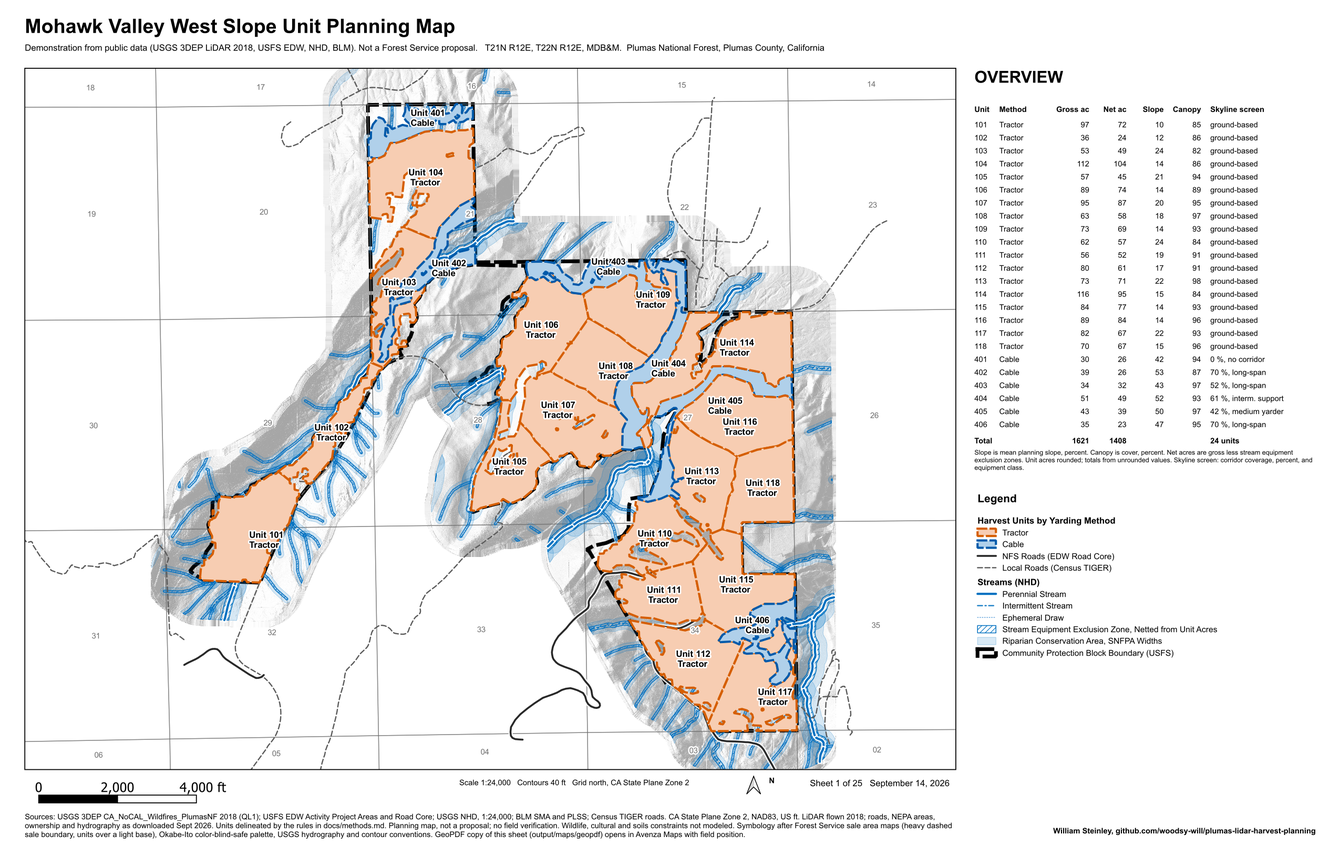
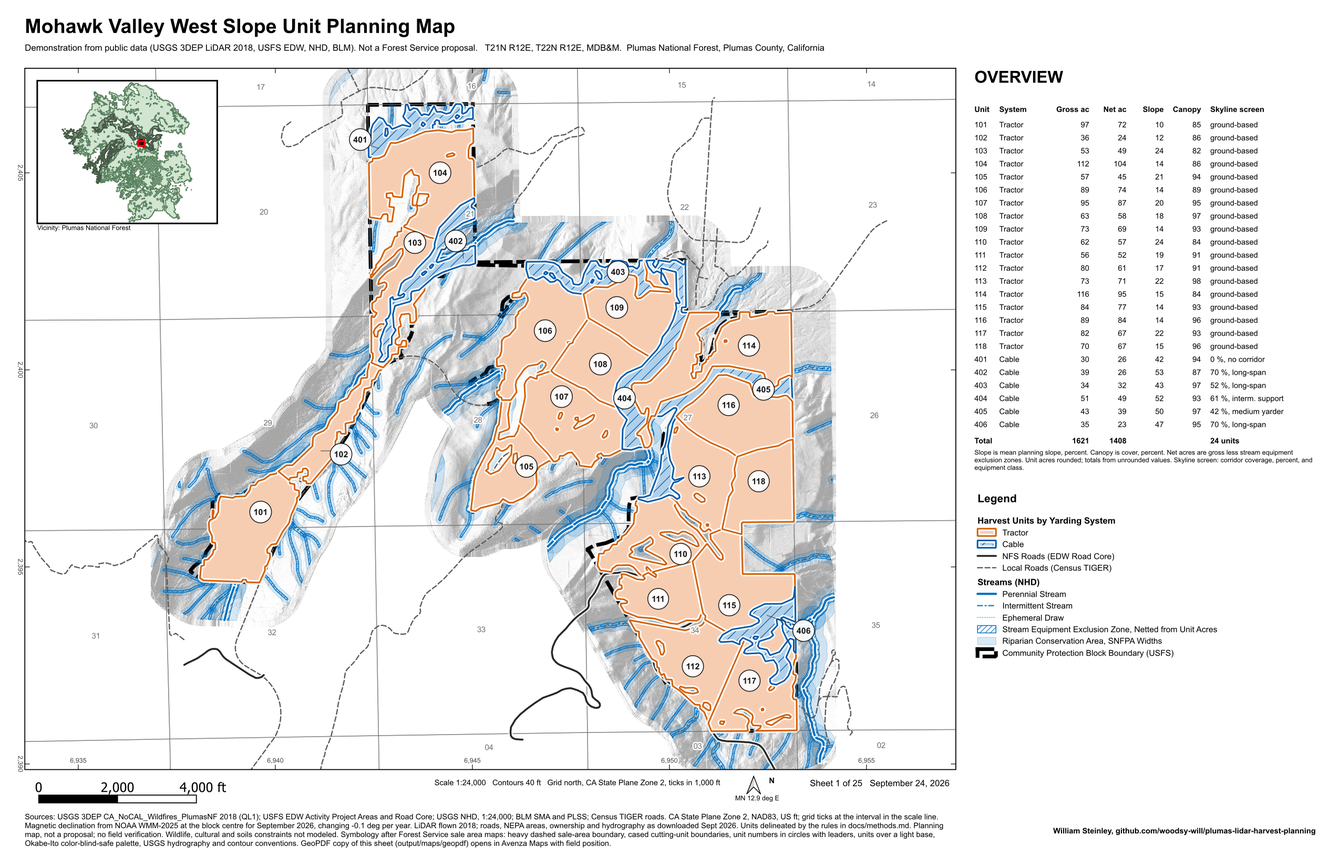
Cartography pass on the unit sheets: cased unit boundaries, circled unit numbers, State Plane grid
Reviewed the symbology against a current Forest Service sale area map (Willamette NF, JC timber sale)
and published cartographic guidance, and fixed what the review found.

Unit boundaries: two units of the same yarding system shared a fill and a boundary of the same colour,
so the line between neighbours disappeared and a run of tractor units read as one block. Every unit now
draws as method tint, white casing, solid boundary, which keeps the cutting-unit boundary the strongest
line on the sheet.

Unit labels: a two-line "Unit 405 / Cable" block does not fit a narrow drainage unit, and PAL was placing
it over the neighbour. Units now carry the number alone in a circle, inside the polygon where it fits and
on a leader where it does not.

Cable units are ruled at 45 degrees on the filled overview and locator: they follow the drainages, where a
flat blue tint next to the riparian wash reads as water, and the ruling also carries the yarding system in
a grey print and under red-green colour blindness.

Marginalia, to the NWCG PMS 936 element list: State Plane Zone 2 grid ticks with values in thousands of
feet, eastings inside the bottom frame and northings outside the left, with a blocking strip that keeps
unit numbers off the easting labels; magnetic declination under the north arrow (NOAA WMM-2025); a vicinity
map of the Plumas National Forest on the overview sheet, which previously had no locator at all.
[…]

diff --git a/scripts/05_unit_maps.py b/scripts/05_unit_maps.py
@@ -20,7 +20,8 @@ from qgis.core import (QgsLayoutMeasurement, QgsCoordinateTransform, QgsMapLayer
                        QgsLayoutItemPage, QgsCategorizedSymbolRenderer, QgsRendererCategory,
                        QgsSimpleFillSymbolLayer, QgsLinePatternFillSymbolLayer)
 from qgis.core import QgsRenderContext, QgsGeometry, QgsSimpleLineSymbolLayer
-from qgis.PyQt.QtCore import Qt
+from qgis.core import QgsTextBackgroundSettings, QgsSimpleLineCallout, Qgis, QgsLayoutItemMapGrid, QgsLayoutItemShape
+from qgis.PyQt.QtCore import Qt, QSizeF
 from qgis.PyQt.QtGui import QColor, QFont
 
 ROOT = os.path.dirname(os.path.dirname(os.path.abspath(__file__)))
@@ -30,6 +31,7 @@ CRS = QgsCoordinateReferenceSystem("EPSG:2226")
 import datetime
 TITLE = "Mohawk Valley West Slope Unit Planning Map"
 DATE = datetime.date.today().strftime("%B %d, %Y"); SHEET = [1, 1]
+DECL = "12.9 deg E"   # short in the margin; the model, epoch and drift are cited in the sources block
 SUBTITLE = "Demonstration from public data (USGS 3DEP LiDAR 2018, USFS EDW, NHD, BLM). Not a Forest Service proposal."
 
 QgsApplication.setPrefixPath(r"C:\Program Files\QGIS 3.44.12\apps\qgis-ltr", True)
@@ -75,6 +77,37 @@ def cased_outline(inner=(0, 0, 0), outer=(255, 255, 255), wi=1.3, wo=3.0):
     return s
 
 
+def unit_face(fill_rgb, line_rgb, casing=1.5, edge=0.5, hatch_angle=None, hatch_dist=2.4, hatch_lw=0.22):
+    """Filled unit for the overview: method tint, a white casing, then the unit boundary on top. Two units of the same
+    method share an edge, so without the casing the common boundary disappears into the fill; the casing reads as a
+    white seam on both sides and each unit stays a separate figure (Forest Service sale area maps keep the cutting unit
+    boundary as the strongest line on the sheet)."""
+    s = QgsFillSymbol(); s.deleteSymbolLayer(0)
+    face = QgsSimpleFillSymbolLayer(); face.setFillColor(QColor(*fill_rgb)); face.setStrokeStyle(Qt.NoPen); s.appendSymbolLayer(face)
+    if hatch_angle is not None:   # cable units sit in the drainages and a flat blue tint there reads as water; the ruling marks them as treatment
+        pat = QgsLinePatternFillSymbolLayer(); pat.setLineAngle(hatch_angle); pat.setDistance(hatch_dist); pat.setLineWidth(hatch_lw); pat.setColor(QColor(*line_rgb)); s.appendSymbolLayer(pat)
+    cas = QgsSimpleFillSymbolLayer(); cas.setFillColor(QColor(0, 0, 0, 0)); cas.setStrokeColor(QColor(255, 255, 255, 235)); cas.setStrokeWidth(casing); s.appendSymbolLayer(cas)
+    top = QgsSimpleFillSymbolLayer(); top.setFillColor(QColor(0, 0, 0, 0)); top.setStrokeColor(QColor(*line_rgb)); top.setStrokeWidth(edge); s.appendSymbolLayer(top)
+    return s
+
+
+def number_label(layer, size=7.5, callout=True):
+    """Unit number in a circle, the sale-area-map callout. Short labels fit inside narrow units where a two-line
+    'Unit 405 / Cable' block does not, and a leader line carries the few that still have to sit outside."""
+    s = QgsPalLayerSettings(); s.fieldName = "unit_id"; s.isExpression = False; s.enabled = True
+    f = QgsTextFormat(); f.setFont(QFont("Arial", int(size), QFont.Bold)); f.setSize(size); f.setColor(QColor(20, 20, 20))
+    b = f.background(); b.setEnabled(True); b.setType(QgsTextBackgroundSettings.ShapeCircle)
+    b.setFillColor(QColor(255, 255, 255, 235)); b.setStrokeColor(QColor(20, 20, 20)); b.setStrokeWidth(0.25)
+    b.setSizeType(QgsTextBackgroundSettings.SizeBuffer); b.setSize(QSizeF(0.7, 0.7)); b.setSizeUnit(QgsUnitTypes.RenderMillimeters)
+    f.setBackground(b); s.setFormat(f)
+    s.placement = QgsPalLayerSettings.Placement.Horizontal
+    s.setPolygonPlacementFlags(Qgis.LabelPolygonPlacementFlags(Qgis.LabelPolygonPlacementFlag.AllowPlacementInsideOfPolygon | Qgis.LabelPolygonPlacementFlag.AllowPlacementOutsideOfPolygon))
+    if callout:
+        co = QgsSimpleLineCallout(); co.setEnabled(True); co.setLineSymbol(line("40,40,40,200", 0.2))
+        co.setMinimumLength(0.6); co.setMinimumLengthUnit(QgsUnitTypes.RenderMillimeters); s.setCallout(co)
+    layer.setLabelsEnabled(True); layer.setLabeling(QgsVectorLayerSimpleLabeling(s))
+
+
 def line(color, width, style="solid"):
     return QgsLineSymbol.createSimple({"color": color, "width": str(width), "line_style": style, "capstyle": "round"})
 
@@ -99,9 +132,11 @@ classes = [QgsPalettedRasterRenderer.Class(1, QColor(206, 232, 222), "Ground-bas
 ycls.setRenderer(QgsPalettedRasterRenderer(ycls.dataProvider(), 1, classes))
 block = vl(os.path.join(RAW, "aoi.geojson"), None, "Community Protection Block Boundary (USFS)"); block.setSubsetString("role = 'treatment_block'")
 block.renderer().setSymbol(fill("0,0,0,0", "0,0,0,255", 1.2)); block.renderer().symbol().symbolLayer(0).setStrokeStyle(Qt.DashLine)   # sale area boundary: heavy black dash
+forest = vl(os.path.join(RAW, "blm_sma_usfs.geojson"), None, "National Forest (BLM SMA)"); forest.renderer().setSymbol(fill("209,229,209,255", "90,130,95,255", 0.3))
+projects = vl(os.path.join(RAW, "facts_cp_project_areas.geojson"), None, "NEPA Project Areas (USFS EDW)"); projects.renderer().setSymbol(fill("120,140,120,120", "70,90,70,255", 0.3))
 sections = vl(os.path.join(RAW, "plss_sections.geojson"), None, "PLSS Sections (BLM)"); sections.renderer().setSymbol(fill("0,0,0,0", "110,110,110,150", 0.25)); label(sections, "\"FRSTDIVNO\"", 7, "110,110,110", False)
 rca = vl(gpkg, "rca_buffers", "Riparian Conservation Area, SNFPA Widths")
-rca.renderer().setSymbol(fill("0,112,192,38", "0,112,192,90", 0.15))   # mapped only: a pale wash, so it never competes with the units
+rca.renderer().setSymbol(fill("0,112,192,38", "0,112,192,90", 0.15))   # mapped only: a pale wash, so it never competes with the units (any lighter and the legend swatch reads as blank white)
 eez = vl(gpkg, "eez_buffers", "Stream Equipment Exclusion Zone, Netted from Unit Acres")
 eez.renderer().setSymbol(hatch((0, 112, 192), (0, 112, 192), angle=45, dist=1.2, lw=0.2, ow=0.25))
 streams = vl(gpkg, "streams_aoi", "Streams (NHD)")
@@ -125,31 +160,31 @@ cl_f = QgsTextFormat(); cl_f.setFont(QFont("Arial", 7)); cl_f.setSize(7); cl_f.s
 from qgis.core import QgsRuleBasedLabeling
 cl_root = QgsRuleBasedLabeling.Rule(None); cl_rule = QgsRuleBasedLabeling.Rule(cl_s); cl_rule.setFilterExpression("\"index\" = 1"); cl_root.appendChild(cl_rule)
 contours.setLabelsEnabled(True); contours.setLabeling(QgsRuleBasedLabeling(cl_root))
-units = vl(gpkg, "units", "Harvest Unit Boundary by Method"); SHEET[1] = sum(1 for _ in units.getFeatures()) + 1   # overview plus one sheet per unit (featureCount() can be -1 before the provider has counted)
+units = vl(gpkg, "units", "Harvest Unit Boundary by Yarding System"); SHEET[1] = sum(1 for _ in units.getFeatures()) + 1   # overview plus one sheet per unit (featureCount() can be -1 before the provider has counted)
 # method colors: Okabe-Ito vermillion for tractor, blue for cable, green for hand thinning (dark for lines, pale for fills)
 METHOD_COLORS = {"Tractor": ((213, 94, 0), (247, 205, 178)), "Cable": ((0, 90, 170), (176, 208, 234)), "Hand Thinning": ((0, 120, 90), (190, 228, 214))}
 present = {f["method"] for f in units.getFeatures()}
 # unit sheets: cased outline by method, interior open so the slope tint inside the unit stays readable (figure over a receded base)
 ucats = [QgsRendererCategory(m, cased_outline(inner=o, outer=(255, 255, 255), wi=0.9, wo=2.2), m) for m, (o, f_) in METHOD_COLORS.items() if m in present]
-units.setRenderer(QgsCategorizedSymbolRenderer("method", ucats)); label(units, "concat('Unit ', \"unit_id\", '\\n', \"method\")", 9)
+units.setRenderer(QgsCategorizedSymbolRenderer("method", ucats)); number_label(units, 7.5)
 from qgis.core import QgsLabelObstacleSettings
 _ls = units.labeling().settings(); _ob = _ls.obstacleSettings(); _ob.setIsObstacle(True); _ob.setType(QgsLabelObstacleSettings.ObstacleType.PolygonBoundary); _ob.setFactor(2.0); _ls.setObstacleSettings(_ob); units.setLabeling(QgsVectorLayerSimpleLabeling(_ls))   # contour labels avoid unit outlines
-# overview and inset: sale-area-map convention, units filled by method with a dashed dark outline (cutting unit boundary)
-units_plain = vl(gpkg, "units", "Harvest Units by Yarding Method")
-pcats = []
-for m, (o, f_) in METHOD_COLORS.items():
-    if m in present:
-        sym = fill(",".join(str(v) for v in f_) + ",255", ",".join(str(v) for v in o) + ",255", 0.7); sym.symbolLayer(0).setStrokeStyle(Qt.DashLine); pcats.append(QgsRendererCategory(m, sym, m))
-units_plain.setRenderer(QgsCategorizedSymbolRenderer("method", pcats)); label(units_plain, "concat('Unit ', \"unit_id\", '\\n', \"method\")", 8)
-units_inset = vl(gpkg, "units", "units_inset"); units_inset.setRenderer(QgsCategorizedSymbolRenderer("method", [QgsRendererCategory(c.value(), c.symbol().clone(), c.label()) for c in pcats]))
+# overview and inset: sale-area-map convention, units filled by method, each one cased so neighbours of the same method
+# still read as separate cutting units, numbered in a circle with the method in the table and legend
+units_plain = vl(gpkg, "units", "Harvest Units by Yarding System")
+HATCH = {"Cable": 45}   # ruling by method: ground-based units plain, cable units ruled, so method survives a grey print and color-vision deficiency
+pcats = [QgsRendererCategory(m, unit_face(f_ + (255,), o + (255,), hatch_angle=HATCH.get(m)), m) for m, (o, f_) in METHOD_COLORS.items() if m in present]
+units_plain.setRenderer(QgsCategorizedSymbolRenderer("method", pcats)); number_label(units_plain, 7.5)
+units_inset = vl(gpkg, "units", "units_inset")   # same fills, thinner casing: the locator is 55 mm wide and the overview weights would close the gaps
+units_inset.setRenderer(QgsCategorizedSymbolRenderer("method", [QgsRendererCategory(m, unit_face(f_ + (255,), o + (255,), casing=0.45, edge=0.18, hatch_angle=HATCH.get(m), hatch_dist=1.2, hatch_lw=0.12), m) for m, (o, f_) in METHOD_COLORS.items() if m in present]))
 cur = vl(gpkg, "units", "This Unit"); cur.renderer().setSymbol(cased_outline(wi=1.6, wo=3.6))
 have_cable = os.path.exists(cable)
 if have_cable:
-    corr = vl(cable, "corridors", "Feasible Skyline Corridors from Selected Landings, Yarded toward Landing"); corr.setSubsetString("feasible = 1"); corr.renderer().setSymbol(line("0,0,0,170", 0.3))
+    corr = vl(cable, "corridors", "Feasible Skyline Corridors from Selected Landings, Yarded toward Landing"); corr.setSubsetString("feasible = 1"); corr.renderer().setSymbol(line("0,0,0,205", 0.35))   # the corridors are the analysis result on a unit sheet: dark enough to read over the slope tint
     landings = vl(cable, "landings", "Selected Landings on Roads, This Unit"); landings.setSubsetString("corridors_ok > 0")
     landings.renderer().setSymbol(QgsMarkerSymbol.createSimple({"name": "triangle", "color": "240,228,66,255", "outline_color": "0,0,0,255", "size": "2.8"}))
 layers = [cur, units] + ([landings, corr] if have_cable else []) + [roads, tiger, streams, contours, eez, rca, sections, block, relief]
-proj.addMapLayer(units_plain, False); proj.addMapLayer(units_inset, False)
+proj.addMapLayer(units_plain, False); proj.addMapLayer(units_inset, False); proj.addMapLayer(forest, False); proj.addMapLayer(projects, False)
 for l in layers:
     proj.addMapLayer(l, False)
 root = proj.layerTreeRoot()
@@ -196,6 +231,40 @@ def make_layout(name, feat=None, extent=None, scale=None):
     if scale:
         m.setScale(scale)
     layout.addLayoutItem(m)
+    # State Plane grid: ticks in the frame with eastings along the bottom and northings up the left side, so a
+    # position read off a GPS can be put on the paper sheet. Interval is the round number that gives about six
+    # divisions across the 300 mm map at whatever scale the sheet was fitted to.
+    span_ft = m.scale() * (300 / 304.8)
+    iv = min(x for x in (500, 1000, 2000, 2500, 5000, 10000, 20000) if x >= span_ft / 6.5)
+    gr = QgsLayoutItemMapGrid("State Plane grid", m)
+    gr.setEnabled(True); gr.setCrs(CRS); gr.setUnits(QgsLayoutItemMapGrid.MapUnit)
+    gr.setIntervalX(iv); gr.setIntervalY(iv)
+    gr.setStyle(QgsLayoutItemMapGrid.FrameAnnotationsOnly)          # no lines across the map face: the units stay the figure
+    gr.setFrameStyle(QgsLayoutItemMapGrid.InteriorTicks); gr.setFrameWidth(1.6); gr.setFramePenSize(0.2)
+    gr.setAnnotationEnabled(True); gr.setAnnotationPrecision(0)
+    # values in thousands of feet, the USGS quad convention: a seven-digit number inside the frame is wide enough to
+    # print across a unit number, and the first sweep of all 25 sheets caught it doing exactly that
+    gr.setAnnotationFormat(QgsLayoutItemMapGrid.CustomFormat)
+    gr.setAnnotationExpression('format_number(@grid_number / 1000, 0)')
+    gf = QgsTextFormat(); gf.setFont(QFont("Arial", 6)); gf.setSize(6); gf.setColor(QColor(70, 70, 70))
+    gf.buffer().setEnabled(True); gf.buffer().setSize(1.0); gf.buffer().setColor(QColor(255, 255, 255))
+    gr.setAnnotationTextFormat(gf)
+    gr.setAnnotationFrameDistance(0.6)
+    gr.setAnnotationDisplay(QgsLayoutItemMapGrid.LongitudeOnly, QgsLayoutItemMapGrid.Bottom)
+    gr.setAnnotationPosition(QgsLayoutItemMapGrid.InsideMapFrame, QgsLayoutItemMapGrid.Bottom)
+    gr.setAnnotationDirection(QgsLayoutItemMapGrid.Horizontal, QgsLayoutItemMapGrid.Bottom)
+    gr.setAnnotationDisplay(QgsLayoutItemMapGrid.LatitudeOnly, QgsLayoutItemMapGrid.Left)
+    gr.setAnnotationPosition(QgsLayoutItemMapGrid.OutsideMapFrame, QgsLayoutItemMapGrid.Left)   # the page margin is free
+    gr.setAnnotationDirection(QgsLayoutItemMapGrid.VerticalDescending, QgsLayoutItemMapGrid.Left)
+    for border in (QgsLayoutItemMapGrid.Top, QgsLayoutItemMapGrid.Right):
+        gr.setAnnotationDisplay(QgsLayoutItemMapGrid.HideAll, border)   # one set of numbers is enough on a sheet this busy
+    m.grids().addGrid(gr); m.updateBoundingRect()
+    # the grid numbers sit in the bottom of the frame, and a unit number placed hard against that edge printed
+    # straight through one on sheet 110. An invisible strip along the bottom keeps map labels off the numbers;
+    # a unit pushed inward keeps its leader back to its own polygon.
+    guard = QgsLayoutItemShape(layout); guard.setShapeType(QgsLayoutItemShape.Rectangle)
+    guard.attemptMove(QgsLayoutPoint(8, 242.5, QgsUnitTypes.LayoutMillimeters)); guard.attemptResize(QgsLayoutSize(300, 5.5, QgsUnitTypes.LayoutMillimeters))
+    guard.setSymbol(fill("0,0,0,0", "0,0,0,0", 0)); layout.addLayoutItem(guard); m.addLabelBlockingItem(guard)
     add_label(layout, TITLE, 8, 5, 300, 9, 18, True)
     add_label(layout, SUBTITLE + f"   {trs_text(feat.geometry() if feat is not None else None)}", 8, 14, 300, 6, 8)
     # right panel
@@ -228,7 +297,7 @@ def make_layout(name, feat=None, extent=None, scale=None):
         def row(vals, yy, size=7, bold=False):
             for (cx, cw, al), v in zip(cols, vals):
                 add_label(layout, v, px + cx, yy, cw, 5, size, bold, al)
-        row(["Unit", "Method", "Gross ac", "Net ac", "Slope", "Canopy", "Skyline screen"], y, 7, True); y += 5
+        row(["Unit", "System", "Gross ac", "Net ac", "Slope", "Canopy", "Skyline screen"], y, 7, True); y += 5
         tg = tn = 0.0
         for f in sorted(units.getFeatures(), key=lambda x: int(x["unit_id"])):
             dd = dict(zip([x.name() for x in units.fields()], f.attributes())); s = summary.get(int(dd["unit_id"]), {}); tg += round(dd["acres"], 2); tn += round(dd["net_acres"], 2)
@@ -256,15 +325,28 @@ def make_layout(name, feat=None, extent=None, scale=None):
     leg.attemptMove(QgsLayoutPoint(px, ly, QgsUnitTypes.LayoutMillimeters)); leg.attemptResize(QgsLayoutSize(pw, 268 - ly, QgsUnitTypes.LayoutMillimeters)); layout.addLayoutItem(leg)
     sb = QgsLayoutItemScaleBar(layout); sb.setLinkedMap(m); sb.setStyle("Single Box"); sb.setUnits(QgsUnitTypes.DistanceFeet); sb.setUnitLabel("ft"); sb.setNumberOfSegments(2); sb.setNumberOfSegmentsLeft(0); sb.setUnitsPerSegment(500 if scale and scale <= 6000 else 1000 if scale and scale <= 12000 else 2000)
     sb.setHeight(2.5); sb.setLabelBarSpace(1); sb.attemptMove(QgsLayoutPoint(10, 250, QgsUnitTypes.LayoutMillimeters)); layout.addLayoutItem(sb)
-    add_label(layout, f"Scale 1:{int(round(m.scale())):,}   Contours 40 ft   Grid north, CA State Plane Zone 2", 148, 251, 92, 6, 7)
+    add_label(layout, f"Scale 1:{int(round(m.scale())):,}   Contours 40 ft   Grid north, CA State Plane Zone 2, ticks in 1,000 ft", 140, 251, 100, 6, 7)
     add_label(layout, f"Sheet {SHEET[0]} of {SHEET[1]}   {DATE}", 250, 251, 56, 6, 8, False, Qt.AlignRight); add_label(layout, "N", 247.8, 250.3, 5, 5, 7, True)
+    add_label(layout, f"MN {DECL}", 233, 256.2, 22, 4, 6, False, Qt.AlignHCenter)   # declination under the north arrow, where a compass user looks for it
     north = QgsLayoutItemPicture(layout); north.setPicturePath(os.path.join(QgsApplication.prefixPath(), "svg", "arrows", "NorthArrow_04.svg")); north.attemptMove(QgsLayoutPoint(240.5, 248.5, QgsUnitTypes.LayoutMillimeters)); north.attemptResize(QgsLayoutSize(7, 7.5, QgsUnitTypes.LayoutMillimeters)); layout.addLayoutItem(north)
     if feat is not None:
-        ins = QgsLayoutItemMap(layout); ins.setKeepLayerSet(True); ins.setLayers([cur, units_inset, block, hill]); ins.setCrs(CRS); ins.attemptMove(QgsLayoutPoint(251, 211, QgsUnitTypes.LayoutMillimeters)); ins.attemptResize(QgsLayoutSize(55, 35, QgsUnitTypes.LayoutMillimeters)); ins.setBackgroundEnabled(True); ins.setBackgroundColor(QColor(255, 255, 255)); ins.zoomToExtent(block_ext.buffered(1500)); ins.setFrameEnabled(True); ins.setFrameStrokeWidth(QgsLayoutMeasurement(0.5, QgsUnitTypes.LayoutMillimeters)); ins.setFrameStrokeColor(QColor(0, 0, 0)); m.addLabelBlockingItem(ins); ins.refresh()   # locator in the map corner so the panel legend can run to the footer; ins.zoomToExtent(block_ext.buffered(1500)); ins.setFrameEnabled(True)
+        ins = QgsLayoutItemMap(layout); ins.setKeepLayerSet(True); ins.setLayers([cur, units_inset, block, hill]); ins.setCrs(CRS); ins.attemptMove(QgsLayoutPoint(251, 206, QgsUnitTypes.LayoutMillimeters)); ins.attemptResize(QgsLayoutSize(55, 35, QgsUnitTypes.LayoutMillimeters)); ins.setBackgroundEnabled(True); ins.setBackgroundColor(QColor(255, 255, 255)); ins.zoomToExtent(block_ext.buffered(1500)); ins.setFrameEnabled(True); ins.setFrameStrokeWidth(QgsLayoutMeasurement(0.5, QgsUnitTypes.LayoutMillimeters)); ins.setFrameStrokeColor(QColor(0, 0, 0)); m.addLabelBlockingItem(ins); ins.refresh()   # locator in the map corner so the panel legend can run to the footer; ins.zoomToExtent(block_ext.buffered(1500)); ins.setFrameEnabled(True)
         ov = QgsLayoutItemMapOverview("cur", ins); ov.setLinkedMap(m); ov.setFrameSymbol(fill("255,0,0,40", "255,0,0,255", 0.5)); ins.overviews().addOverview(ov); layout.addLayoutItem(ins)
+    else:
+        # the overview sheet had no locator at all: a reader could not place the block without reading the title.
+        # Vicinity map in the empty west corner, block in red inside the Plumas National Forest and its project areas.
+        vic = QgsLayoutItemMap(layout); vic.setKeepLayerSet(True); vic.setLayers([block, projects, forest]); vic.setCrs(CRS)   # no roads: at forest scale the TIGER network is a hairball and buries the project areas
+        vic.attemptMove(QgsLayoutPoint(12, 26, QgsUnitTypes.LayoutMillimeters)); vic.attemptResize(QgsLayoutSize(58, 46, QgsUnitTypes.LayoutMillimeters))
+        vic.setBackgroundEnabled(True); vic.setBackgroundColor(QColor(255, 255, 255))
+        fx = forest.extent(); ct = QgsCoordinateTransform(forest.crs(), CRS, proj); fx = ct.transformBoundingBox(fx)
+        vic.zoomToExtent(fx.buffered(3000))
+        vic.setFrameEnabled(True); vic.setFrameStrokeWidth(QgsLayoutMeasurement(0.5, QgsUnitTypes.LayoutMillimeters)); vic.setFrameStrokeColor(QColor(0, 0, 0))
+        m.addLabelBlockingItem(vic); vic.refresh(); layout.addLayoutItem(vic)
+        vov = QgsLayoutItemMapOverview("block", vic); vov.setLinkedMap(m); vov.setFrameSymbol(fill("255,0,0,60", "255,0,0,255", 0.6)); vic.overviews().addOverview(vov)
+        add_label(layout, "Vicinity: Plumas National Forest", 12, 72.4, 58, 4, 6)
     add_label(layout, "Sources: USGS 3DEP CA_NoCAL_Wildfires_PlumasNF 2018 (QL1); USFS EDW Activity Project Areas and Road Core; USGS NHD, 1:24,000; BLM SMA and PLSS; Census TIGER roads. "
-                      "CA State Plane Zone 2, NAD83, US ft. LiDAR flown 2018; roads, NEPA areas, ownership and hydrography as downloaded Sept 2026. Units delineated by the rules in docs/methods.md. "
-                      "Planning map, not a proposal; no field verification. Wildlife, cultural and soils constraints not modeled. Symbology after Forest Service sale area maps (heavy dashed sale boundary, units over a light base), Okabe-Ito color-blind-safe palette, USGS hydrography and contour conventions. "
+                      "CA State Plane Zone 2, NAD83, US ft; grid ticks at the interval in the scale line. Magnetic declination from NOAA WMM-2025 at the block centre for September 2026, changing -0.1 deg per year. LiDAR flown 2018; roads, NEPA areas, ownership and hydrography as downloaded Sept 2026. Units delineated by the rules in docs/methods.md. "
+                      "Planning map, not a proposal; no field verification. Wildlife, cultural and soils constraints not modeled. Symbology after Forest Service sale area maps: heavy dashed sale-area boundary, cased cutting-unit boundaries, unit numbers in circles with leaders, units over a light base, Okabe-Ito color-blind-safe palette, USGS hydrography and contour conventions. "
                       "GeoPDF copy of this sheet (output/maps/geopdf) opens in Avenza Maps with field position.",
               8, 262, 300, 14, 7)
     add_label(layout, "William Steinley, github.com/woodsy-will/plumas-lidar-harvest-planning", px, 266.5, pw, 6, 7, True, Qt.AlignRight)

diff --git a/scripts/10_sample_pack.py b/scripts/10_sample_pack.py
@@ -1,0 +1,45 @@
+"""10_sample_pack.py - a small sample of the map series for people who will not download 190 MB.
+
+Three sheets out of the twenty-five: the overview, one ground-based unit and one cable unit, merged with
+bookmarks, plus the Avenza GeoPDF of the cable unit so the sample can be opened in the field. Everything comes
+from output/maps, so this only runs after 05_unit_maps.py.
+
+Outputs output/maps/sample/Sample_Sheets.pdf and Sample_Unit_404_GeoPDF.pdf
+Run: python-qgis-ltr.bat scripts/10_sample_pack.py
+"""
+import os
+import shutil
+
+from pypdf import PdfWriter
+
+ROOT = os.path.dirname(os.path.dirname(os.path.abspath(__file__)))
+MAPS = os.path.join(ROOT, "output", "maps")
+OUT = os.path.join(MAPS, "sample")
+os.makedirs(OUT, exist_ok=True)
+
+SHEETS = [("Overview.pdf", "Overview, all 24 units"),
+          ("Unit_101.pdf", "Unit 101, tractor"),
+          ("Unit_404.pdf", "Unit 404, cable")]
+
+missing = [s for s, _ in SHEETS if not os.path.exists(os.path.join(MAPS, s))]
+if missing:
+    raise SystemExit("run 05_unit_maps.py first, missing: " + ", ".join(missing))
+
+w = PdfWriter()
+for i, (sheet, title) in enumerate(SHEETS):
+    w.append(os.path.join(MAPS, sheet))
+    w.add_outline_item(title, i)
+w.add_metadata({"/Title": "Mohawk Valley West Slope unit planning map, 3-sheet sample (demonstration from public data)",
+                "/Author": "William Steinley",
+                "/Creator": "PyQGIS 3.44 layout export, merged with pypdf",
+                "/Subject": "Sample of the 25-sheet series. Full series and Avenza GeoPDFs are on the v1.1 release."})
+dst = os.path.join(OUT, "Sample_Sheets.pdf")
+w.write(dst)
+
+geo_src = os.path.join(MAPS, "geopdf", "Unit_404.pdf")
+geo_dst = os.path.join(OUT, "Sample_Unit_404_GeoPDF.pdf")
+if os.path.exists(geo_src):
+    shutil.copy2(geo_src, geo_dst)
+
+for f in sorted(os.listdir(OUT)):
+    print(f"  {f:34s} {os.path.getsize(os.path.join(OUT, f)) / 1e6:5.1f} MB")

diff --git a/scripts/02b_quicklooks.py b/scripts/02b_quicklooks.py
@@ -30,9 +30,11 @@ def read(name):
 
 hill, ext = read("hillshade.tif"); hill = np.where(hill == 0, np.nan, hill)
 rings = []
+labels = []   # unit number at the polygon's point on surface, so these figures can be read against the map sheets
 pds = ogr.Open(os.path.join(WORK, "planning.gpkg")); punits = pds.GetLayerByName("units")
 for f in punits:
     g = f.GetGeometryRef()
+    pt = g.PointOnSurface(); labels.append((pt.GetX(), pt.GetY(), str(f.GetField("unit_id"))))
     for poly in ([g.GetGeometryRef(i) for i in range(g.GetGeometryCount())] if g.GetGeometryName() == "MULTIPOLYGON" else [g]):
         r = poly.GetGeometryRef(0); rings.append(([r.GetPoint_2D(i)[0] for i in range(r.GetPointCount())], [r.GetPoint_2D(i)[1] for i in range(r.GetPointCount())]))
 
@@ -46,6 +48,9 @@ def frame(title):
 def finish(fig, ax, name, note=""):
     for xs, ys in rings:
         ax.plot(xs, ys, color="k", lw=0.6)
+    for x, y, t in labels:
+        ax.text(x, y, t, fontsize=6.5, ha="center", va="center", color="k", zorder=5,
+                bbox=dict(boxstyle="circle,pad=0.25", facecolor="white", edgecolor="k", linewidth=0.5, alpha=0.9))
     ax.set_xlim(ext[0], ext[1]); ax.set_ylim(ext[2], ext[3]); ax.set_xticks([]); ax.set_yticks([])
     # scale bar: one mile, and a north arrow
     x0 = ext[0] + (ext[1] - ext[0]) * 0.04; y0 = ext[2] + (ext[3] - ext[2]) * 0.04

diff --git a/scripts/09_export_webmap.py b/scripts/09_export_webmap.py
@@ -122,7 +122,13 @@ plots = gpd.read_file(G, layer="plots"); write(plots, "plots.geojson", cols=["pl
 # yarding class overlay: warp to EPSG:3857, 4-colour palette PNG with transparency, bounds in WGS84
 src = os.path.join(P, "output", "gis", "yarding_class.tif")
 tmp = os.path.join(OUT, "_yc3857.tif")
-gdal.Warp(tmp, src, dstSRS="EPSG:3857", xRes=6, yRes=6, resampleAlg="near", dstNodata=0)
+# clip to the units plus a 500 ft margin: over a topographic basemap the full DTM footprint reads as a hard-edged
+# rectangle of colour across ground nobody proposed to treat, and the classes only mean anything next to the units
+cut = os.path.join(OUT, "_ycmask.geojson")
+gpd.GeoDataFrame(geometry=[gpd.read_file(G, layer="units").to_crs(CRS_FT).buffer(500).union_all()], crs=CRS_FT).to_file(cut, driver="GeoJSON")
+gdal.Warp(tmp, src, dstSRS="EPSG:3857", xRes=6, yRes=6, resampleAlg="near", dstNodata=0,
+          cutlineDSName=cut, cropToCutline=True)
+os.remove(cut)
 ds = gdal.Open(tmp); a = ds.GetRasterBand(1).ReadAsArray(); gt = ds.GetGeoTransform(); w, h = ds.RasterXSize, ds.RasterYSize
 rgba = np.zeros((h, w, 4), dtype=np.uint8)
 pal = {1: (166, 206, 189, 150), 2: (240, 228, 150, 160), 3: (241, 176, 140, 170)}   # ground-based, marginal, cable (pale Okabe tints)

diff --git a/docs/methods.md b/docs/methods.md
@@ -171,7 +171,9 @@ The symbology was reworked against published guidance and a current Forest Servi
 
 | Element | Choice | Basis |
 |---|---|---|
-| Visual hierarchy | The units are the figure: cased outlines colored by method with bold labels; everything else recedes. Overview uses pale method fills with a dashed dark outline, the cutting-unit convention. | Willamette NF LFC SBA sale area map (2025): units as the only filled features, heavy dashed sale boundary, grey base; Esri design principles on figure-ground and contrast |
+| Visual hierarchy | The units are the figure: cased outlines colored by method, everything else recedes. The overview fills units by method and cases every unit boundary in white, so two neighbouring units of the same method still read as separate cutting units instead of one mass. | Willamette NF JC and LFC SBA sale area maps: units as the only filled features, heavy dashed sale boundary, grey base; Esri design principles on figure-ground, contrast and line casing |
+| Unit labels | Unit number in a circle, placed inside the unit where it fits and on a leader where it does not; method comes from the fill and the unit table | Willamette NF JC sale area map, where every cutting unit carries a circled number and the acres sit in a side table; a two-line `Unit 405 / Cable` block does not fit the narrow drainage units and drifted into the neighbour |
+| Cable units | On the overview and locator, where units are filled, the pale blue fill is ruled at 45 degrees; the unit sheets leave unit interiors open, so there the method is carried by the cased outline colour alone | The cable units follow the drainages, where a flat blue tint reads as water next to the riparian wash; ruling also carries method in a grey print and under color-vision deficiency. Value and pattern by yarding system follows the JC sale area map (light grey tractor, dark grey skyline) |
 | Sale boundary | Heavy black long dash | Same sale area map; a line pattern reads under any color vision |
 | Relief base | Multidirectional hillshade multiplied into pale class tints once in `02c_relief_tint.py`; shadows held to 62 % luminosity, tints desaturated | Patterson (shadedrelief.com): shadows no darker than 70 %, muted colors so relief does not muddy the map; Esri: base at 30 to 50 % strength; empirical overlay study (opacity 20 to 70 % acceptable, outlines extend the range) |
 | Why one composed raster | Blending translucent fills in the layout produced third colors (blue over yellow read as green) and would have forced the PDF export to raster | Jenny and Kelso 2007 on redundant variables and confusable blends; measured in this project |
@@ -179,8 +181,11 @@ The symbology was reworked against published guidance and a current Forest Servi
 | Hydrography | USGS blue; perennial solid, intermittent dash-dot, ephemeral dotted; riparian conservation areas as a pale wash; equipment exclusion zones as a fine hatch inside units | USGS topographic map symbol standard; class carried by line pattern, not hue |
 | Contours | USGS brown, 40 ft with 200 ft index, held to low opacity | USGS standard (brown, index heavier); hierarchy |
 | Roads | System roads as a cased dark line with the road number; local roads thin grey dash | USGS road classes; sale area map road numbers |
-| Corridors and landings | Thin neutral black corridors, yellow triangle landings with black edge | Avoids a second blue family next to hydrography |
-| Marginalia | Scale statement, contour interval, north reference, sheet number and date beside the bar scale | Standard map elements; sale area map title block |
+| Corridors and landings | Thin neutral black corridors, yellow triangle landings with black edge | Avoids a second blue family next to hydrography; the corridors are the result on a unit sheet, so they are drawn dark enough to read over the slope tint |
+| Web overlay extent | The yarding-class raster is clipped to the units and a 500 ft margin | Over a topographic basemap the full DTM footprint reads as a hard-edged rectangle of colour across ground nobody proposed to treat |
+| Marginalia | Scale statement, contour interval, north reference, magnetic declination, sheet number and date beside the bar scale | NWCG PMS 936 map elements (STANDL-SGD: scale, title, author, north arrow, date, legend, source, grid, disclaimer); sale area map title block. Declination 12.9 deg E at the block centre for September 2026, NOAA WMM-2025, changing -0.1 deg per year |
+| Coordinate grid | State Plane Zone 2 ticks in the map frame, values in thousands of feet: eastings along the bottom inside the frame, northings outside the left frame, interval the round number nearest one sixth of the map width at that sheet's scale. A blocking strip along the bottom of the frame keeps unit numbers off the easting labels | The grid element of STANDL-SGD, so a GPS position can be placed on the paper sheet; ticks rather than lines across the face keep the units the figure |
+| Vicinity map | Overview sheet carries a locator of the Plumas National Forest with the NEPA project areas and the block in red | NWCG and USGS practice: the reader should be able to place the sheet without reading the title. The unit sheets already carried a locator of the block |
 
 ## Canopy height model and pits
 
@@ -247,21 +252,21 @@ the measurements below come from reading the files back with PyMuPDF, GDAL and P
 
 | Item | Standard | This project |
 |---|---|---|
-| Print PDF | text and linework vector, rasters at 300 dpi, fonts embedded | unit sheets and overview: vector text (Arial embedded), 5 raster images at 300 dpi, 4.4 to 13.6 MB per unit sheet (median about 6.7 MB), 5.4 MB for the overview |
+| Print PDF | text and linework vector, rasters at 300 dpi, fonts embedded | unit sheets and overview: vector text (Arial embedded), 5 raster images at 300 dpi, 4.7 to 14.4 MB per unit sheet (median about 7.1 MB), 7.0 MB for the overview |
 | Field PDF | georeferenced; Avenza reduces maps over 4 Mpx to 150 dpi and over 12 Mpx to 72 dpi on import | `output/maps/geopdf`: QGIS GeoPDF at 200 dpi (4.2 Mpx map raster, under the 12 Mpx step); the print PDFs also carry ISO 32000 georeferencing |
 | Figures | 300 dpi for publication | all cable figures, route tables and profiles at 300 dpi; corridor maps and quicklooks at 200 dpi |
 | Web previews | sRGB, about 2,000 to 2,500 px long edge, JPEG quality 85 to 90 | 1,870 px map previews, 2,400 px figure previews, quality 88, 4:4:4 chroma so thin colored lines stay crisp |
 | Text contrast | WCAG 2.2 AA: 4.5:1 for text, 3:1 for graphics | every text and background pair measured is 5.4:1 or better; map text on the hillshade tints 8.8:1 |
-| Color vision | categories distinguishable under protan, deutan and tritan simulation | Okabe-Ito palette throughout; unit interiors are left open under a cased outline instead of filled with a translucent color, because a blue fill over the yellow marginal tint blended to a green only 9 CIE76 units from the ground-based tint; the overview, which carries no relief tint, uses opaque pale method fills; the current-unit outline is black with a white casing because red on orange collapsed to 1.7 units under protan simulation |
-| Type size | 6 pt minimum, 8 pt preferred on printed maps | smallest map text 6 pt (contour elevation labels), footer and overview unit table 7 pt, legend 7.5 pt, unit panel 9 pt |
+| Color vision | categories distinguishable under protan, deutan and tritan simulation | Okabe-Ito palette throughout; unit interiors are left open under a cased outline instead of filled with a translucent color, because a blue fill over the yellow marginal tint blended to a green only 9 CIE76 units from the ground-based tint; the overview, which carries no relief tint, uses opaque pale method fills with the cable units ruled, so the yarding system survives a grey print as well as protan or deutan vision; the current-unit outline is black with a white casing because red on orange collapsed to 1.7 units under protan simulation |
+| Type size | 6 pt minimum, 8 pt preferred on printed maps | smallest map text 6 pt (contour elevation labels), unit numbers and legend 7.5 pt, footer and overview unit table 7 pt, unit panel 9 pt |
 | Metadata | title and author in the document, ISO / FGDC summary for GIS data | PDF document title and author set; GeoPackage carries layer descriptions and a project metadata table |
 
-The merged map series (about 191 MB at 300 dpi) and the GeoPDF folder are kept out of git and attached to the
+The merged map series (about 193 MB at 300 dpi) and the GeoPDF folder are kept out of git and attached to the
 release instead.
 
 ## Colors, metadata and deliverables
 
-Every categorical color on the maps and figures (yarding method, yarding class, uphill / downhill,
+Every categorical color on the maps and figures (yarding system, yarding class, uphill / downhill,
 difficulty, QA flags) is drawn from the Okabe-Ito color-blind-safe palette. The unit sheets and overview
 are exported twice: a print PDF with vector text and 300 dpi rasters, and a georeferenced GeoPDF at 200 dpi
 for Avenza Maps. QGIS rasterizes the whole sheet for GeoPDF, so the two cannot be one file. Each sheet

diff --git a/README.md b/README.md
@@ -134,7 +134,7 @@ units fall short of 20 plots; the measured-tree count by species is reported on 
 
 ### Standards followed
 
-Map layout follows Forest Service sale area maps: units colored by yarding method (pale fills with a dashed dark
+Map layout follows Forest Service sale area maps: units colored by yarding system (pale fills with a cased dark
 outline on the overview, cased outlines on the unit sheets), treatment block boundary, streamcourse protection,
 roads with numbers, 40 ft contours with 200 ft index, PLSS with township and range, unit table, 11x17, as
 vector print PDF (300 dpi rasters) and as GeoPDF for Avenza. Symbology was reworked against a current Forest
